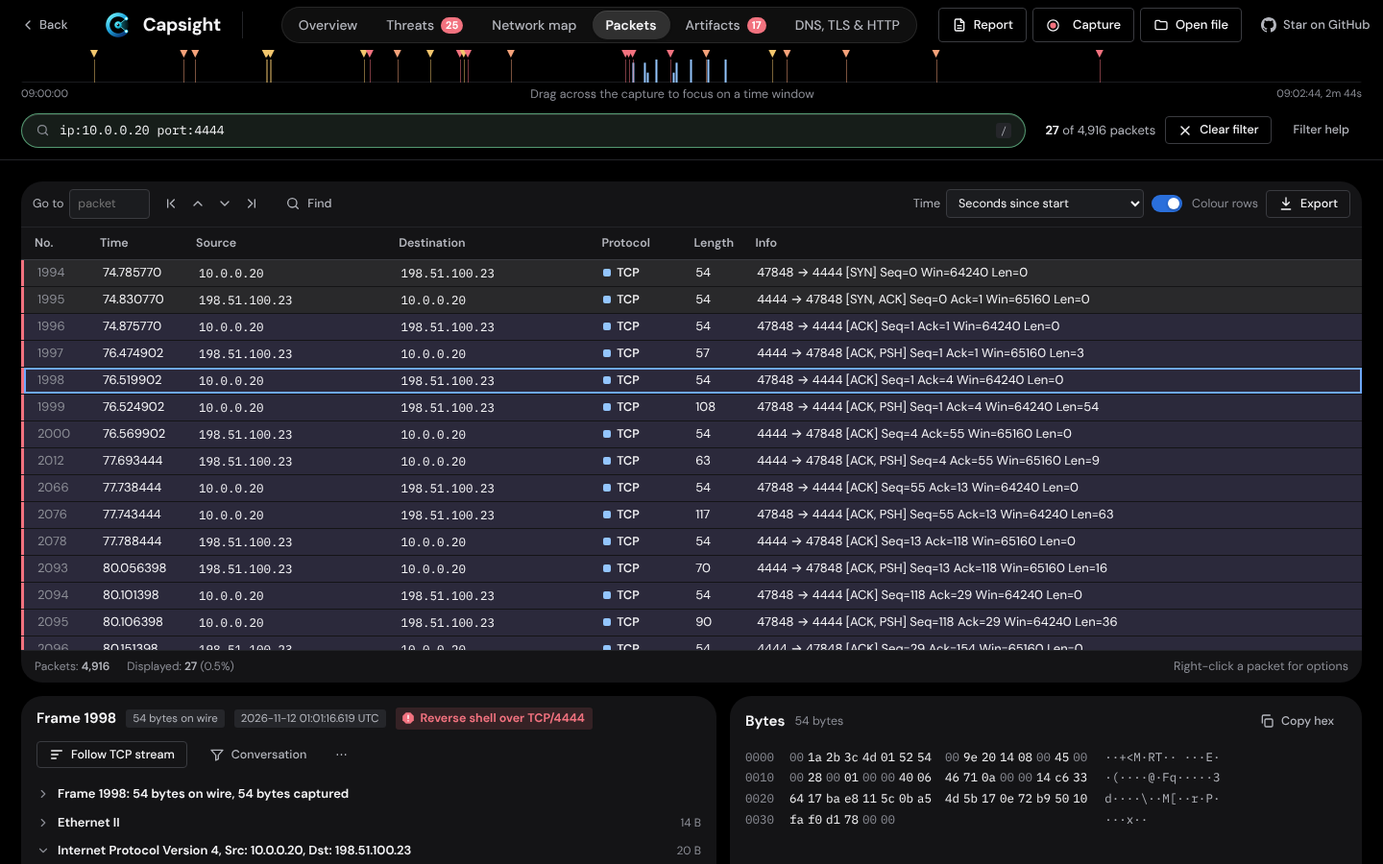
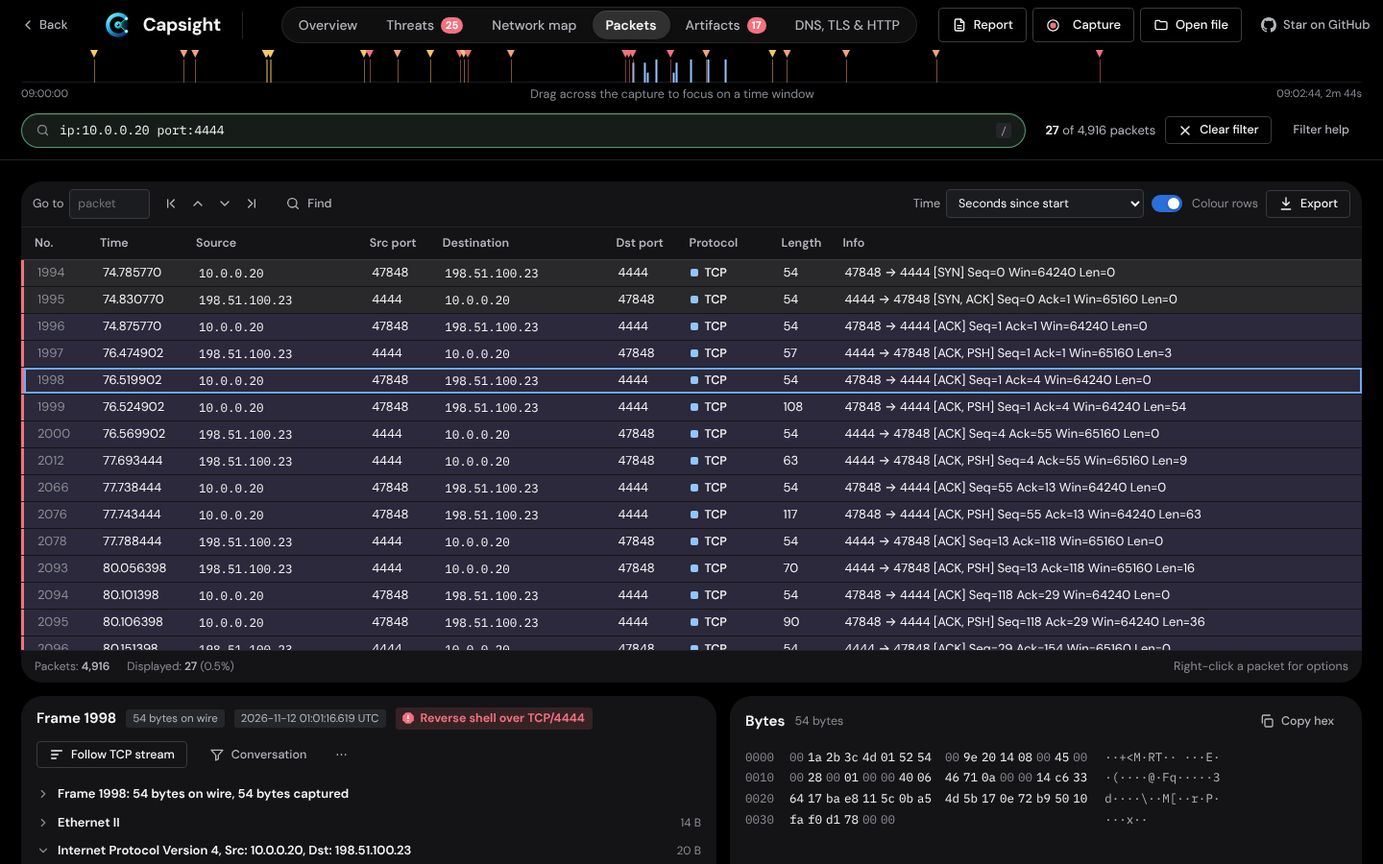
Packets: source and destination port columns
Src port and Dst port sit beside the addresses, sort, and filter with a
right-click (tcp.dstport == 80); a heading right-click hides or shows
them. Phones show address:port on the first line of each packet.

Claude-Session: https://claude.ai/code/session_011G7TJWohrC34fgAjhhxjNM

diff --git a/dist/capsight.html b/dist/capsight.html
@@ -229,7 +229,9 @@ main { padding: 22px; max-width: 1720px; margin: 0 auto; }
 /* ---------- packets ---------- */
 .pk-wrap { display: grid; grid-template-rows: minmax(340px, 58vh) auto; gap: 14px; }
 .ptable { display: flex; flex-direction: column; overflow: hidden; }
-.phead, .prow { display: grid; grid-template-columns: 68px var(--tw, 100px) minmax(120px, 1fr) minmax(120px, 1fr) 96px 64px minmax(200px, 3fr); align-items: center; }
+.phead, .prow { display: grid; grid-template-columns: 68px var(--tw, 100px) minmax(110px, 1fr) 76px minmax(110px, 1fr) 76px 96px 64px minmax(200px, 3fr); align-items: center; }
+.noports .phead, .noports .prow { grid-template-columns: 68px var(--tw, 100px) minmax(120px, 1fr) minmax(120px, 1fr) 96px 64px minmax(200px, 3fr); }
+.noports .phead > :nth-child(4), .noports .phead > :nth-child(6), .noports .prow > :nth-child(4), .noports .prow > :nth-child(6) { display: none; }
 .phead { font-size: 12.5px; color: var(--text-2); font-weight: 600; border-bottom: 1px solid var(--line-2); padding: 0 6px; height: 34px; flex: none; }
 .phead div, .prow div { padding: 0 8px; overflow: hidden; text-overflow: ellipsis; white-space: nowrap; }
 .pbody { flex: 1; overflow: auto; position: relative; outline: none; }
@@ -688,18 +690,22 @@ a.btn { text-decoration: none; color: var(--text); }
   .ptf select { max-width: 120px; }
   .pfind { flex-wrap: wrap; padding: 8px 10px; } .pfind input { flex: 1 1 140px; }
   .pstatus { padding: 6px 10px; gap: 4px 12px; }
-  .prow { height: 51px; padding: 6px 10px; grid-template-columns: 46px minmax(0, 1fr) minmax(0, 1fr) auto; grid-template-rows: auto auto; row-gap: 3px; align-content: center; border-bottom: 1px solid var(--line); }
+  .prow, .noports .prow { height: 51px; padding: 6px 10px; grid-template-columns: 44px minmax(0, max-content) auto minmax(0, max-content) minmax(0, 1fr); grid-template-rows: auto auto; row-gap: 3px; align-content: center; border-bottom: 1px solid var(--line); }
   .prow:nth-child(even) { background: transparent; }
   .prow.sel { background: var(--accent-soft); }
   .prow > div { padding: 0 4px; }
   .prow > div:nth-child(1) { grid-area: 1 / 1; }
   .prow > div:nth-child(2) { grid-area: 2 / 1; font-size: 11px; color: var(--muted); }
-  .prow > div:nth-child(3) { grid-area: 1 / 2; }
-  .prow > div:nth-child(4) { grid-area: 1 / 3; }
-  .prow > div:nth-child(4)::before { content: "→ "; color: var(--muted); font-family: inherit; }
-  .prow > div:nth-child(5) { grid-area: 1 / 4; justify-self: end; }
-  .prow > div:nth-child(6) { grid-area: 2 / 4; justify-self: end; font-size: 11.5px; color: var(--muted); }
-  .prow > div:nth-child(7) { grid-area: 2 / 2 / 3 / 4; font-size: 12px; color: var(--text-2); }
+  .prow > div:nth-child(3) { grid-area: 1 / 2; padding-right: 0; }
+  .prow > div:nth-child(4), .noports .prow > div:nth-child(4) { grid-area: 1 / 3; display: block; padding: 0 6px 0 0; font-size: 12px; color: var(--text-2); }
+  .prow > div:nth-child(5) { grid-area: 1 / 4; padding-right: 0; }
+  .prow > div:nth-child(5)::before { content: "→ "; color: var(--muted); font-family: inherit; }
+  .prow > div:nth-child(6), .noports .prow > div:nth-child(6) { grid-area: 1 / 5; display: block; padding: 0 4px 0 0; font-size: 12px; color: var(--text-2); }
+  .prow > .pt:not(:empty)::before { content: ":"; }
+  .prow > div:nth-child(7) { grid-area: 2 / 5; justify-self: end; }
+  .prow > div:nth-child(8) { display: none; }
+  .prow > div:nth-child(9) { grid-area: 2 / 2 / 3 / 5; font-size: 12px; color: var(--text-2); contain: inline-size; }
+  .prow .mono { font-size: 12px; letter-spacing: -.01em; }
   .hex { padding: 6px 12px 12px; font-size: 12px; }
   .hex .o { margin-right: 10px; } .hex .asc { margin-left: 12px; }
   .fld .k { min-width: 120px; } .fld.d1 .k { min-width: 100px; }
@@ -3289,8 +3295,9 @@ if (document.fonts) document.fonts.ready.then(() => moveTabPill(true));
 // sortable columns, colouring rules, time formats, go to packet, find, and export.
 let RH = 28;
 const PHONE = () => matchMedia('(max-width: 640px)').matches;
-const PK_COLS = ['no', 'time', 'src', 'dst', 'proto', 'len', 'info'];
-const PK_COL_NAME = { no: 'No.', time: 'Time', src: 'Source', dst: 'Destination', proto: 'Protocol', len: 'Length', info: 'Info' };
+const PK_COLS = ['no', 'time', 'src', 'sport', 'dst', 'dport', 'proto', 'len', 'info'];
+const PK_COL_NAME = { no: 'No.', time: 'Time', src: 'Source', sport: 'Src port', dst: 'Destination', dport: 'Dst port', proto: 'Protocol', len: 'Length', info: 'Info' };
+const portOf = p => p >= 0 ? String(p) : '';
 const PI = {
   up: '<path d="M18 15l-6-6-6 6"/>', down: '<path d="M6 9l6 6 6-6"/>',
   first: '<path d="M17 18l-6-6 6-6M7 6v12"/>', last: '<path d="M7 6l6 6-6 6M17 6v12"/>',
@@ -3301,7 +3308,7 @@ const PI = {
 function pkPref(k, d) { try { const v = localStorage.getItem('capsight.pk.' + k); return v === null ? d : JSON.parse(v); } catch (e) { return d; } }
 const pkSetPref = (k, v) => { try { localStorage.setItem('capsight.pk.' + k, JSON.stringify(v)); } catch (e) {} };
 function pkState(prev) {
-  return { marked: new Set(), ignored: new Set(), refs: new Set(), refList: [], comments: new Map(), conv: [], color: prev ? prev.color : pkPref('color', true), tfmt: prev ? prev.tfmt : pkPref('tfmt', 'rel'), sort: null, sorted: null, sortedFor: undefined, sortKey: '', find: { mode: 'string', q: '' }, layers: null };
+  return { marked: new Set(), ignored: new Set(), refs: new Set(), refList: [], comments: new Map(), conv: [], color: prev ? prev.color : pkPref('color', true), ports: prev ? prev.ports : pkPref('ports', true), tfmt: prev ? prev.tfmt : pkPref('tfmt', 'rel'), sort: null, sorted: null, sortedFor: undefined, sortKey: '', find: { mode: 'string', q: '' }, layers: null };
 }
 
 /* ---------- colouring rules (Wireshark's defaults, first match wins) ---------- */
@@ -3346,7 +3353,7 @@ function pkList() {
   const key = P.sort.c + P.sort.dir;
   if (P.sortedFor === base && P.sortKey === key && P.sorted) return P.sorted;
   const cap = S.cap, arr = base ? base.slice() : Array.from(cap.pk, (_, i) => i);
-  const get = { no: i => i, time: i => i, src: i => addrKey(cap.pk[i].s.src), dst: i => addrKey(cap.pk[i].s.dst), proto: i => cap.pk[i].s.proto, len: i => cap.pk[i].len, info: i => cap.pk[i].s.info }[P.sort.c];
+  const get = { no: i => i, time: i => i, src: i => addrKey(cap.pk[i].s.src), dst: i => addrKey(cap.pk[i].s.dst), sport: i => cap.pk[i].s.sp, dport: i => cap.pk[i].s.dp, proto: i => cap.pk[i].s.proto, len: i => cap.pk[i].len, info: i => cap.pk[i].s.info }[P.sort.c];
   const k = new Map(arr.map(i => [i, get(i)]));
   arr.sort((a, b) => { const x = k.get(a), y = k.get(b); return (x < y ? -1 : x > y ? 1 : a - b) * P.sort.dir; });
   P.sorted = arr; P.sortedFor = base; P.sortKey = key;
@@ -3387,6 +3394,7 @@ function renderPackets() {
   $('#ptfmt').value = S.pk.tfmt; $('#pcolor').checked = S.pk.color;
   $('#ptable').style.setProperty('--tw', TFMT_W[S.pk.tfmt] + 'px');
   $('#ptable').classList.toggle('pkcolor', S.pk.color);
+  $('#ptable').classList.toggle('noports', !S.pk.ports);
   drawRows();
   if (S.sel >= 0) showDetail(S.sel); else { $('#dhead').innerHTML = '<h3>Packet details</h3>'; $('#tree').innerHTML = '<div class="empty">Select a packet to inspect its layers. Right-click it for filters and more.</div>'; $('#hex').innerHTML = ''; $('#hexsub').textContent = ''; }
 }
@@ -3406,7 +3414,7 @@ function pkWire() {
   ['pointerup', 'pointercancel'].forEach(t => pb.addEventListener(t, () => clearTimeout(pkLong.t)));
   pb.addEventListener('keydown', pkKeys);
   $('#phead').onclick = e => { const h = e.target.closest('[data-c]'); if (!h) return; const c = h.dataset.c, P = S.pk; P.sort = !P.sort || P.sort.c !== c ? { c, dir: 1 } : P.sort.dir === 1 ? { c, dir: -1 } : null; drawRows(); if (S.sel >= 0) selectPacket(S.sel, true); };
-  $('#phead').oncontextmenu = e => { e.preventDefault(); const h = e.target.closest('[data-c]'); const c = h ? h.dataset.c : null; ctxMenu([{ t: 'Sort ascending', dis: !c, act: () => { S.pk.sort = { c, dir: 1 }; drawRows(); } }, { t: 'Sort descending', dis: !c, act: () => { S.pk.sort = { c, dir: -1 }; drawRows(); } }, { t: 'Remove sorting', dis: !S.pk.sort, act: () => { S.pk.sort = null; drawRows(); } }], e.clientX, e.clientY); };
+  $('#phead').oncontextmenu = e => { e.preventDefault(); const h = e.target.closest('[data-c]'); const c = h ? h.dataset.c : null; ctxMenu([{ t: 'Sort ascending', dis: !c, act: () => { S.pk.sort = { c, dir: 1 }; drawRows(); } }, { t: 'Sort descending', dis: !c, act: () => { S.pk.sort = { c, dir: -1 }; drawRows(); } }, { t: 'Remove sorting', dis: !S.pk.sort, act: () => { S.pk.sort = null; drawRows(); } }, { sep: 1 }, { t: S.pk.ports ? 'Hide port columns' : 'Show port columns', act: () => { S.pk.ports = !S.pk.ports; pkSetPref('ports', S.pk.ports); $('#ptable').classList.toggle('noports', !S.pk.ports); } }], e.clientX, e.clientY); };
   $$('[data-nav]').forEach(b => b.onclick = () => pkNav(b.dataset.nav));
   $('#pgo').addEventListener('keydown', e => { if (e.key === 'Enter') { e.preventDefault(); pkGoTo(e.target.value); } if (e.key === 'Escape') e.target.blur(); });
   $('#ptfmt').onchange = e => { S.pk.tfmt = e.target.value; pkSetPref('tfmt', S.pk.tfmt); $('#ptable').style.setProperty('--tw', TFMT_W[S.pk.tfmt] + 'px'); drawRows(); };
@@ -3442,7 +3450,7 @@ function drawRows() {
     if (cc) { cls += ' cc'; style += `;--cc:${cc.color}`; }
     else if (P.color && !ig) { const cr = pkColorRule(r); if (cr) cls += ' ' + cr.cls; }
     const info = ig ? '<Ignored>' : s.info;
-    html += `<div class="${cls}" data-i="${i}" style="${style}"><div class="num dim">${i + 1}${P.comments.has(i) ? '<b class="pcm" title="Has a comment">•</b>' : ''}</div><div class="num">${pkTime(i, k ? pkAt(k - 1) : -1)}</div><div class="mono">${esc(s.src)}</div><div class="mono">${esc(s.dst)}</div><div>${protoPill(s.proto)}</div><div class="num">${r.len}</div><div title="${esc(info)}">${esc(info)}</div></div>`;
+    html += `<div class="${cls}" data-i="${i}" style="${style}"><div class="num dim">${i + 1}${P.comments.has(i) ? '<b class="pcm" title="Has a comment">•</b>' : ''}</div><div class="num">${pkTime(i, k ? pkAt(k - 1) : -1)}</div><div class="mono">${esc(s.src)}</div><div class="num pt">${portOf(s.sp)}</div><div class="mono">${esc(s.dst)}</div><div class="num pt">${portOf(s.dp)}</div><div>${protoPill(s.proto)}</div><div class="num">${r.len}</div><div title="${esc(info)}">${esc(info)}</div></div>`;
   }
   const sp = $('#pspace'); sp.innerHTML = html;
   if (!n) sp.innerHTML = '<div class="empty">No packets match the current filter</div>';
@@ -3545,6 +3553,7 @@ function colFilter(i, c) {
     case 'no': return 'frame.number==' + (i + 1);
     case 'time': return 'frame.time_relative==' + (r.t - cap.t0).toFixed(6);
     case 'dst': return addrFilter(s, 'dst');
+    case 'sport': case 'dport': { const v = c === 'sport' ? s.sp : s.dp; if (v < 0) return addrFilter(s, c === 'sport' ? 'src' : 'dst'); const l4 = s.l4 === 'UDP' ? 'udp' : s.l4 === 'TCP' ? 'tcp' : ''; return l4 ? l4 + '.' + (c === 'sport' ? 'srcport' : 'dstport') + '==' + v : (c === 'sport' ? 'sport' : 'dport') + '==' + v; }
     case 'proto': return /^[a-z][a-z0-9]*$/i.test(s.proto) ? s.proto.toLowerCase() : '_ws.col.protocol==' + fq(s.proto);
     case 'len': return 'frame.len==' + r.len;
     case 'info': return '_ws.col.info==' + fq(s.info);
@@ -3586,7 +3595,7 @@ function pkMenu(i, c, x, y) {
   const det = cap.pkDet.get(i) !== undefined ? cap.threats[cap.pkDet.get(i)] : null;
   const convs = convFilters(i);
   const swatches = f => ({ sw: CONV_COLORS, act: col => { P.conv = P.conv.filter(cv => cv.expr !== f); P.conv.unshift({ expr: f, pred: compileFilter(f), color: col }); drawRows(); toast('Colourised this conversation'); } });
-  const cell = { no: String(i + 1), time: pkTime(i), src: s.src, dst: s.dst, proto: s.proto, len: String(r.len), info: s.info }[c];
+  const cell = { no: String(i + 1), time: pkTime(i), src: s.src, sport: portOf(s.sp), dst: s.dst, dport: portOf(s.dp), proto: s.proto, len: String(r.len), info: s.info }[c];
   ctxMenu([
     { t: P.marked.has(i) ? 'Unmark packet' : 'Mark packet', k: 'Ctrl+M', act: () => pkToggle('marked', i) },
     { t: P.ignored.has(i) ? 'Unignore packet' : 'Ignore packet', k: 'Ctrl+D', act: () => pkToggle('ignored', i) },
@@ -3631,7 +3640,7 @@ function pkCopy(text, msg) {
   if (navigator.clipboard && window.isSecureContext) navigator.clipboard.writeText(text).then(done, fail); else fail();
 }
 function pkSummary(list, fmt) {
-  const cap = S.cap, rows = list.map((i, k) => { const r = cap.pk[i], s = r.s; return [i + 1, pkTime(i, k ? list[k - 1] : -1), s.src, s.dst, s.proto, r.len, S.pk.ignored.has(i) ? '<Ignored>' : s.info]; });
+  const cap = S.cap, rows = list.map((i, k) => { const r = cap.pk[i], s = r.s; return [i + 1, pkTime(i, k ? list[k - 1] : -1), s.src, portOf(s.sp), s.dst, portOf(s.dp), s.proto, r.len, S.pk.ignored.has(i) ? '<Ignored>' : s.info]; });
   const head = PK_COLS.map(c => PK_COL_NAME[c]);
   if (fmt === 'csv') return [head].concat(rows).map(r => r.map(v => '"' + String(v).replace(/"/g, '""') + '"').join(',')).join('\n');
   return rows.map(r => r.join('\t')).join('\n');

diff --git a/src/packets.js b/src/packets.js
@@ -4,8 +4,9 @@
 // sortable columns, colouring rules, time formats, go to packet, find, and export.
 let RH = 28;
 const PHONE = () => matchMedia('(max-width: 640px)').matches;
-const PK_COLS = ['no', 'time', 'src', 'dst', 'proto', 'len', 'info'];
-const PK_COL_NAME = { no: 'No.', time: 'Time', src: 'Source', dst: 'Destination', proto: 'Protocol', len: 'Length', info: 'Info' };
+const PK_COLS = ['no', 'time', 'src', 'sport', 'dst', 'dport', 'proto', 'len', 'info'];
+const PK_COL_NAME = { no: 'No.', time: 'Time', src: 'Source', sport: 'Src port', dst: 'Destination', dport: 'Dst port', proto: 'Protocol', len: 'Length', info: 'Info' };
+const portOf = p => p >= 0 ? String(p) : '';
 const PI = {
   up: '<path d="M18 15l-6-6-6 6"/>', down: '<path d="M6 9l6 6 6-6"/>',
   first: '<path d="M17 18l-6-6 6-6M7 6v12"/>', last: '<path d="M7 6l6 6-6 6M17 6v12"/>',
@@ -16,7 +17,7 @@ const PI = {
 function pkPref(k, d) { try { const v = localStorage.getItem('capsight.pk.' + k); return v === null ? d : JSON.parse(v); } catch (e) { return d; } }
 const pkSetPref = (k, v) => { try { localStorage.setItem('capsight.pk.' + k, JSON.stringify(v)); } catch (e) {} };
 function pkState(prev) {
-  return { marked: new Set(), ignored: new Set(), refs: new Set(), refList: [], comments: new Map(), conv: [], color: prev ? prev.color : pkPref('color', true), tfmt: prev ? prev.tfmt : pkPref('tfmt', 'rel'), sort: null, sorted: null, sortedFor: undefined, sortKey: '', find: { mode: 'string', q: '' }, layers: null };
+  return { marked: new Set(), ignored: new Set(), refs: new Set(), refList: [], comments: new Map(), conv: [], color: prev ? prev.color : pkPref('color', true), ports: prev ? prev.ports : pkPref('ports', true), tfmt: prev ? prev.tfmt : pkPref('tfmt', 'rel'), sort: null, sorted: null, sortedFor: undefined, sortKey: '', find: { mode: 'string', q: '' }, layers: null };
 }
 
 /* ---------- colouring rules (Wireshark's defaults, first match wins) ---------- */
@@ -61,7 +62,7 @@ function pkList() {
   const key = P.sort.c + P.sort.dir;
   if (P.sortedFor === base && P.sortKey === key && P.sorted) return P.sorted;
   const cap = S.cap, arr = base ? base.slice() : Array.from(cap.pk, (_, i) => i);
-  const get = { no: i => i, time: i => i, src: i => addrKey(cap.pk[i].s.src), dst: i => addrKey(cap.pk[i].s.dst), proto: i => cap.pk[i].s.proto, len: i => cap.pk[i].len, info: i => cap.pk[i].s.info }[P.sort.c];
+  const get = { no: i => i, time: i => i, src: i => addrKey(cap.pk[i].s.src), dst: i => addrKey(cap.pk[i].s.dst), sport: i => cap.pk[i].s.sp, dport: i => cap.pk[i].s.dp, proto: i => cap.pk[i].s.proto, len: i => cap.pk[i].len, info: i => cap.pk[i].s.info }[P.sort.c];
   const k = new Map(arr.map(i => [i, get(i)]));
   arr.sort((a, b) => { const x = k.get(a), y = k.get(b); return (x < y ? -1 : x > y ? 1 : a - b) * P.sort.dir; });
   P.sorted = arr; P.sortedFor = base; P.sortKey = key;
@@ -102,6 +103,7 @@ function renderPackets() {
   $('#ptfmt').value = S.pk.tfmt; $('#pcolor').checked = S.pk.color;
   $('#ptable').style.setProperty('--tw', TFMT_W[S.pk.tfmt] + 'px');
   $('#ptable').classList.toggle('pkcolor', S.pk.color);
+  $('#ptable').classList.toggle('noports', !S.pk.ports);
   drawRows();
   if (S.sel >= 0) showDetail(S.sel); else { $('#dhead').innerHTML = '<h3>Packet details</h3>'; $('#tree').innerHTML = '<div class="empty">Select a packet to inspect its layers. Right-click it for filters and more.</div>'; $('#hex').innerHTML = ''; $('#hexsub').textContent = ''; }
 }
@@ -121,7 +123,7 @@ function pkWire() {
   ['pointerup', 'pointercancel'].forEach(t => pb.addEventListener(t, () => clearTimeout(pkLong.t)));
   pb.addEventListener('keydown', pkKeys);
   $('#phead').onclick = e => { const h = e.target.closest('[data-c]'); if (!h) return; const c = h.dataset.c, P = S.pk; P.sort = !P.sort || P.sort.c !== c ? { c, dir: 1 } : P.sort.dir === 1 ? { c, dir: -1 } : null; drawRows(); if (S.sel >= 0) selectPacket(S.sel, true); };
-  $('#phead').oncontextmenu = e => { e.preventDefault(); const h = e.target.closest('[data-c]'); const c = h ? h.dataset.c : null; ctxMenu([{ t: 'Sort ascending', dis: !c, act: () => { S.pk.sort = { c, dir: 1 }; drawRows(); } }, { t: 'Sort descending', dis: !c, act: () => { S.pk.sort = { c, dir: -1 }; drawRows(); } }, { t: 'Remove sorting', dis: !S.pk.sort, act: () => { S.pk.sort = null; drawRows(); } }], e.clientX, e.clientY); };
+  $('#phead').oncontextmenu = e => { e.preventDefault(); const h = e.target.closest('[data-c]'); const c = h ? h.dataset.c : null; ctxMenu([{ t: 'Sort ascending', dis: !c, act: () => { S.pk.sort = { c, dir: 1 }; drawRows(); } }, { t: 'Sort descending', dis: !c, act: () => { S.pk.sort = { c, dir: -1 }; drawRows(); } }, { t: 'Remove sorting', dis: !S.pk.sort, act: () => { S.pk.sort = null; drawRows(); } }, { sep: 1 }, { t: S.pk.ports ? 'Hide port columns' : 'Show port columns', act: () => { S.pk.ports = !S.pk.ports; pkSetPref('ports', S.pk.ports); $('#ptable').classList.toggle('noports', !S.pk.ports); } }], e.clientX, e.clientY); };
   $$('[data-nav]').forEach(b => b.onclick = () => pkNav(b.dataset.nav));
   $('#pgo').addEventListener('keydown', e => { if (e.key === 'Enter') { e.preventDefault(); pkGoTo(e.target.value); } if (e.key === 'Escape') e.target.blur(); });
   $('#ptfmt').onchange = e => { S.pk.tfmt = e.target.value; pkSetPref('tfmt', S.pk.tfmt); $('#ptable').style.setProperty('--tw', TFMT_W[S.pk.tfmt] + 'px'); drawRows(); };
@@ -157,7 +159,7 @@ function drawRows() {
     if (cc) { cls += ' cc'; style += `;--cc:${cc.color}`; }
     else if (P.color && !ig) { const cr = pkColorRule(r); if (cr) cls += ' ' + cr.cls; }
     const info = ig ? '<Ignored>' : s.info;
-    html += `<div class="${cls}" data-i="${i}" style="${style}"><div class="num dim">${i + 1}${P.comments.has(i) ? '<b class="pcm" title="Has a comment">•</b>' : ''}</div><div class="num">${pkTime(i, k ? pkAt(k - 1) : -1)}</div><div class="mono">${esc(s.src)}</div><div class="mono">${esc(s.dst)}</div><div>${protoPill(s.proto)}</div><div class="num">${r.len}</div><div title="${esc(info)}">${esc(info)}</div></div>`;
+    html += `<div class="${cls}" data-i="${i}" style="${style}"><div class="num dim">${i + 1}${P.comments.has(i) ? '<b class="pcm" title="Has a comment">•</b>' : ''}</div><div class="num">${pkTime(i, k ? pkAt(k - 1) : -1)}</div><div class="mono">${esc(s.src)}</div><div class="num pt">${portOf(s.sp)}</div><div class="mono">${esc(s.dst)}</div><div class="num pt">${portOf(s.dp)}</div><div>${protoPill(s.proto)}</div><div class="num">${r.len}</div><div title="${esc(info)}">${esc(info)}</div></div>`;
   }
   const sp = $('#pspace'); sp.innerHTML = html;
   if (!n) sp.innerHTML = '<div class="empty">No packets match the current filter</div>';
@@ -260,6 +262,7 @@ function colFilter(i, c) {
     case 'no': return 'frame.number==' + (i + 1);
     case 'time': return 'frame.time_relative==' + (r.t - cap.t0).toFixed(6);
     case 'dst': return addrFilter(s, 'dst');
+    case 'sport': case 'dport': { const v = c === 'sport' ? s.sp : s.dp; if (v < 0) return addrFilter(s, c === 'sport' ? 'src' : 'dst'); const l4 = s.l4 === 'UDP' ? 'udp' : s.l4 === 'TCP' ? 'tcp' : ''; return l4 ? l4 + '.' + (c === 'sport' ? 'srcport' : 'dstport') + '==' + v : (c === 'sport' ? 'sport' : 'dport') + '==' + v; }
     case 'proto': return /^[a-z][a-z0-9]*$/i.test(s.proto) ? s.proto.toLowerCase() : '_ws.col.protocol==' + fq(s.proto);
     case 'len': return 'frame.len==' + r.len;
     case 'info': return '_ws.col.info==' + fq(s.info);
@@ -301,7 +304,7 @@ function pkMenu(i, c, x, y) {
   const det = cap.pkDet.get(i) !== undefined ? cap.threats[cap.pkDet.get(i)] : null;
   const convs = convFilters(i);
   const swatches = f => ({ sw: CONV_COLORS, act: col => { P.conv = P.conv.filter(cv => cv.expr !== f); P.conv.unshift({ expr: f, pred: compileFilter(f), color: col }); drawRows(); toast('Colourised this conversation'); } });
-  const cell = { no: String(i + 1), time: pkTime(i), src: s.src, dst: s.dst, proto: s.proto, len: String(r.len), info: s.info }[c];
+  const cell = { no: String(i + 1), time: pkTime(i), src: s.src, sport: portOf(s.sp), dst: s.dst, dport: portOf(s.dp), proto: s.proto, len: String(r.len), info: s.info }[c];
   ctxMenu([
     { t: P.marked.has(i) ? 'Unmark packet' : 'Mark packet', k: 'Ctrl+M', act: () => pkToggle('marked', i) },
     { t: P.ignored.has(i) ? 'Unignore packet' : 'Ignore packet', k: 'Ctrl+D', act: () => pkToggle('ignored', i) },
@@ -346,7 +349,7 @@ function pkCopy(text, msg) {
   if (navigator.clipboard && window.isSecureContext) navigator.clipboard.writeText(text).then(done, fail); else fail();
 }
 function pkSummary(list, fmt) {
-  const cap = S.cap, rows = list.map((i, k) => { const r = cap.pk[i], s = r.s; return [i + 1, pkTime(i, k ? list[k - 1] : -1), s.src, s.dst, s.proto, r.len, S.pk.ignored.has(i) ? '<Ignored>' : s.info]; });
+  const cap = S.cap, rows = list.map((i, k) => { const r = cap.pk[i], s = r.s; return [i + 1, pkTime(i, k ? list[k - 1] : -1), s.src, portOf(s.sp), s.dst, portOf(s.dp), s.proto, r.len, S.pk.ignored.has(i) ? '<Ignored>' : s.info]; });
   const head = PK_COLS.map(c => PK_COL_NAME[c]);
   if (fmt === 'csv') return [head].concat(rows).map(r => r.map(v => '"' + String(v).replace(/"/g, '""') + '"').join(',')).join('\n');
   return rows.map(r => r.join('\t')).join('\n');

diff --git a/src/style.css b/src/style.css
@@ -200,7 +200,9 @@ main { padding: 22px; max-width: 1720px; margin: 0 auto; }
 /* ---------- packets ---------- */
 .pk-wrap { display: grid; grid-template-rows: minmax(340px, 58vh) auto; gap: 14px; }
 .ptable { display: flex; flex-direction: column; overflow: hidden; }
-.phead, .prow { display: grid; grid-template-columns: 68px var(--tw, 100px) minmax(120px, 1fr) minmax(120px, 1fr) 96px 64px minmax(200px, 3fr); align-items: center; }
+.phead, .prow { display: grid; grid-template-columns: 68px var(--tw, 100px) minmax(110px, 1fr) 76px minmax(110px, 1fr) 76px 96px 64px minmax(200px, 3fr); align-items: center; }
+.noports .phead, .noports .prow { grid-template-columns: 68px var(--tw, 100px) minmax(120px, 1fr) minmax(120px, 1fr) 96px 64px minmax(200px, 3fr); }
+.noports .phead > :nth-child(4), .noports .phead > :nth-child(6), .noports .prow > :nth-child(4), .noports .prow > :nth-child(6) { display: none; }
 .phead { font-size: 12.5px; color: var(--text-2); font-weight: 600; border-bottom: 1px solid var(--line-2); padding: 0 6px; height: 34px; flex: none; }
 .phead div, .prow div { padding: 0 8px; overflow: hidden; text-overflow: ellipsis; white-space: nowrap; }
 .pbody { flex: 1; overflow: auto; position: relative; outline: none; }
@@ -659,18 +661,22 @@ a.btn { text-decoration: none; color: var(--text); }
   .ptf select { max-width: 120px; }
   .pfind { flex-wrap: wrap; padding: 8px 10px; } .pfind input { flex: 1 1 140px; }
   .pstatus { padding: 6px 10px; gap: 4px 12px; }
-  .prow { height: 51px; padding: 6px 10px; grid-template-columns: 46px minmax(0, 1fr) minmax(0, 1fr) auto; grid-template-rows: auto auto; row-gap: 3px; align-content: center; border-bottom: 1px solid var(--line); }
+  .prow, .noports .prow { height: 51px; padding: 6px 10px; grid-template-columns: 44px minmax(0, max-content) auto minmax(0, max-content) minmax(0, 1fr); grid-template-rows: auto auto; row-gap: 3px; align-content: center; border-bottom: 1px solid var(--line); }
   .prow:nth-child(even) { background: transparent; }
   .prow.sel { background: var(--accent-soft); }
   .prow > div { padding: 0 4px; }
   .prow > div:nth-child(1) { grid-area: 1 / 1; }
   .prow > div:nth-child(2) { grid-area: 2 / 1; font-size: 11px; color: var(--muted); }
-  .prow > div:nth-child(3) { grid-area: 1 / 2; }
-  .prow > div:nth-child(4) { grid-area: 1 / 3; }
-  .prow > div:nth-child(4)::before { content: "→ "; color: var(--muted); font-family: inherit; }
-  .prow > div:nth-child(5) { grid-area: 1 / 4; justify-self: end; }
-  .prow > div:nth-child(6) { grid-area: 2 / 4; justify-self: end; font-size: 11.5px; color: var(--muted); }
-  .prow > div:nth-child(7) { grid-area: 2 / 2 / 3 / 4; font-size: 12px; color: var(--text-2); }
+  .prow > div:nth-child(3) { grid-area: 1 / 2; padding-right: 0; }
+  .prow > div:nth-child(4), .noports .prow > div:nth-child(4) { grid-area: 1 / 3; display: block; padding: 0 6px 0 0; font-size: 12px; color: var(--text-2); }
+  .prow > div:nth-child(5) { grid-area: 1 / 4; padding-right: 0; }
+  .prow > div:nth-child(5)::before { content: "→ "; color: var(--muted); font-family: inherit; }
+  .prow > div:nth-child(6), .noports .prow > div:nth-child(6) { grid-area: 1 / 5; display: block; padding: 0 4px 0 0; font-size: 12px; color: var(--text-2); }
+  .prow > .pt:not(:empty)::before { content: ":"; }
+  .prow > div:nth-child(7) { grid-area: 2 / 5; justify-self: end; }
+  .prow > div:nth-child(8) { display: none; }
+  .prow > div:nth-child(9) { grid-area: 2 / 2 / 3 / 5; font-size: 12px; color: var(--text-2); contain: inline-size; }
+  .prow .mono { font-size: 12px; letter-spacing: -.01em; }
   .hex { padding: 6px 12px 12px; font-size: 12px; }
   .hex .o { margin-right: 10px; } .hex .asc { margin-left: 12px; }
   .fld .k { min-width: 120px; } .fld.d1 .k { min-width: 100px; }

diff --git a/CHANGELOG.md b/CHANGELOG.md
@@ -7,7 +7,7 @@ Notable changes to Capsight, newest first.
 - **Wireshark display filters:** the filter bar now reads Wireshark's syntax: field names like `ip.addr`, `tcp.port`, `tcp.flags.syn`, `http.request.method`, `dns.qry.name` and `tls.handshake.extensions_server_name`; `== != > < >= <=` and `eq ne gt lt ge le`; `contains` and `matches`; byte slices like `tcp[13:1] == 02`; and `&& || !`, `and or not` with brackets. The bar turns green or red as you type, and Enter applies the filter. Capsight's short forms still work.
 - **Right-click a packet** (long-press on a phone) for Wireshark's packet menu: Apply as filter and Prepare as filter in all six forms, conversation filters, colourise conversation, follow TCP/UDP/TLS/HTTP stream, mark, ignore, time reference, packet comment, copy (summary, CSV, value, filter, hex dump, hex stream, text, escaped) and export the packet's bytes or the packet as .pcapng.
 - **Right-click a field** in the packet details to filter on it, copy it or export its bytes; double-click applies it as a filter. Fields without a named filter use a byte slice counted from their protocol's start.
-- **Packet list:** sortable columns, Wireshark's default colouring rules, time formats (since start, since previous, time of day, UTC, epoch) with time references, go to packet, find by text, hex or filter, next and previous marked packet or packet in the same conversation, and a status bar with displayed, marked and ignored counts.
+- **Packet list:** new **Src port** and **Dst port** columns (filter on them with a right-click; on phones they sit beside each address), sortable columns, Wireshark's default colouring rules, time formats (since start, since previous, time of day, UTC, epoch) with time references, go to packet, find by text, hex or filter, next and previous marked packet or packet in the same conversation, and a status bar with displayed, marked and ignored counts.
 - **Export** shown or marked packets as .pcapng with your comments, or the packet list as CSV or text.
 - **Follow stream** shows one direction or both, as ASCII, a hex dump or raw hex, and can show, filter out or save the stream.
 - **Buttons:** monochrome, solid main buttons and underlined secondary ones, replacing the cyan gradient pills.

diff --git a/README.md b/README.md
@@ -197,7 +197,7 @@ The Packets tab works the way Wireshark does.
   - **Copy** the summary as text or CSV, a cell, the filter, or the bytes as a hex dump, a hex stream, printable text or an escaped string.
   - **Export** the packet's bytes or the packet as `.pcapng`.
 - **Right-click a field** in the packet details to filter on it, copy it or export its bytes. Double-click a field to apply it as a filter.
-- **Columns** sort when you click their heading. The **Time** column shows seconds since start, since the previous packet, time of day, UTC or epoch, and counts from your time references.
+- **Columns:** No., Time, Source, **Src port**, Destination, **Dst port**, Protocol, Length and Info. Right-click a port to filter on it (`tcp.dstport == 80`); right-click a heading to hide or show the port columns. Columns sort when you click their heading. The **Time** column shows seconds since start, since the previous packet, time of day, UTC or epoch, and counts from your time references.
 - **Colour rows** applies Wireshark's default colouring rules (TCP, UDP, HTTP, ARP, ICMP, SYN/FIN, RST and more).
 - **Go to** a packet number, **Find** a packet by text, hex bytes or display filter, and see counts of displayed, marked and ignored packets in the status bar.
 - **Export** the shown or marked packets as `.pcapng` (with your comments), or the packet list as CSV or text.
